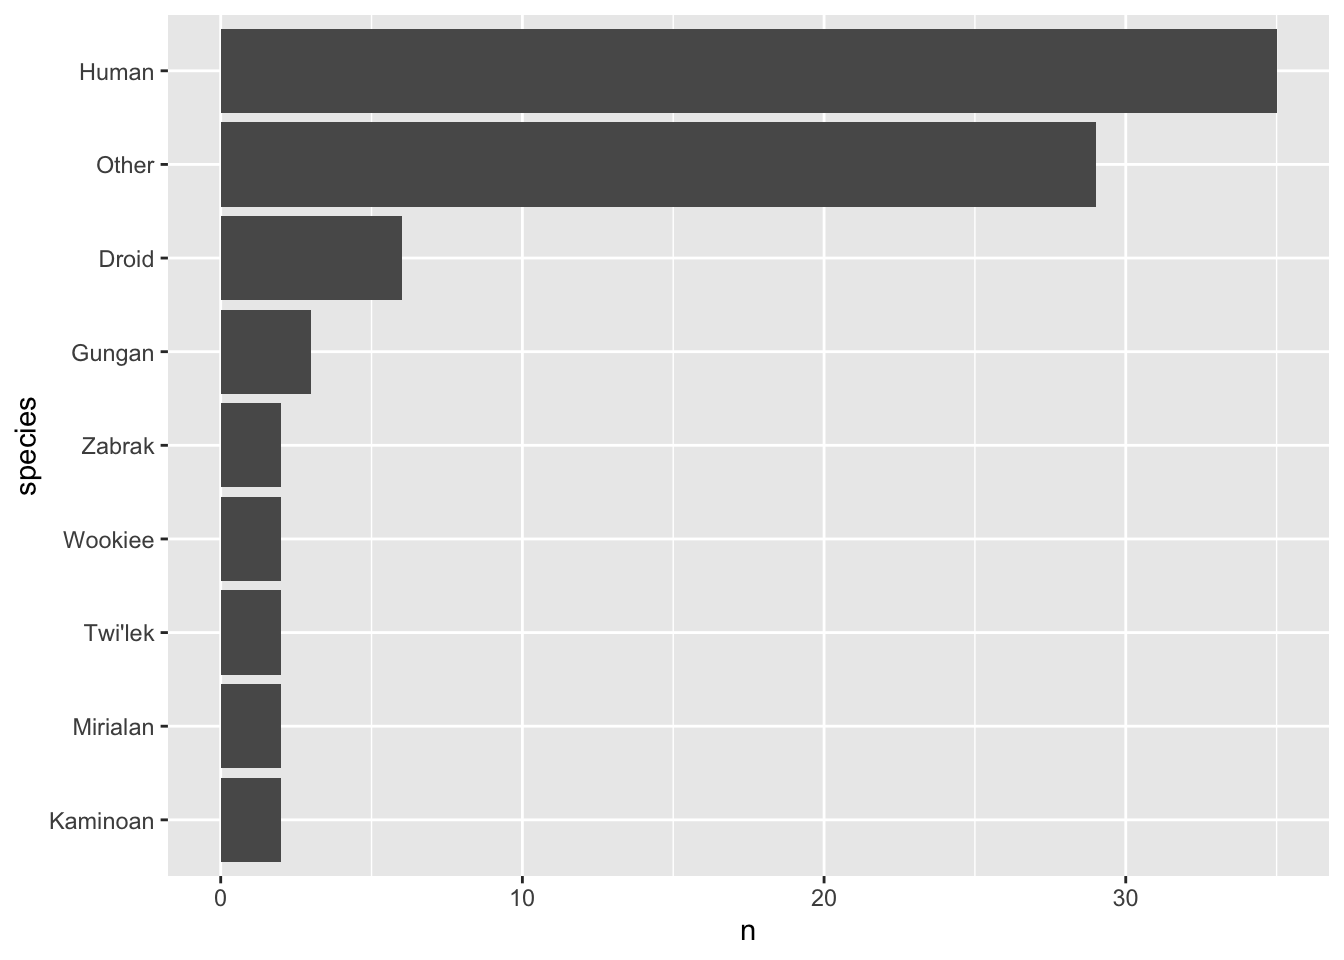
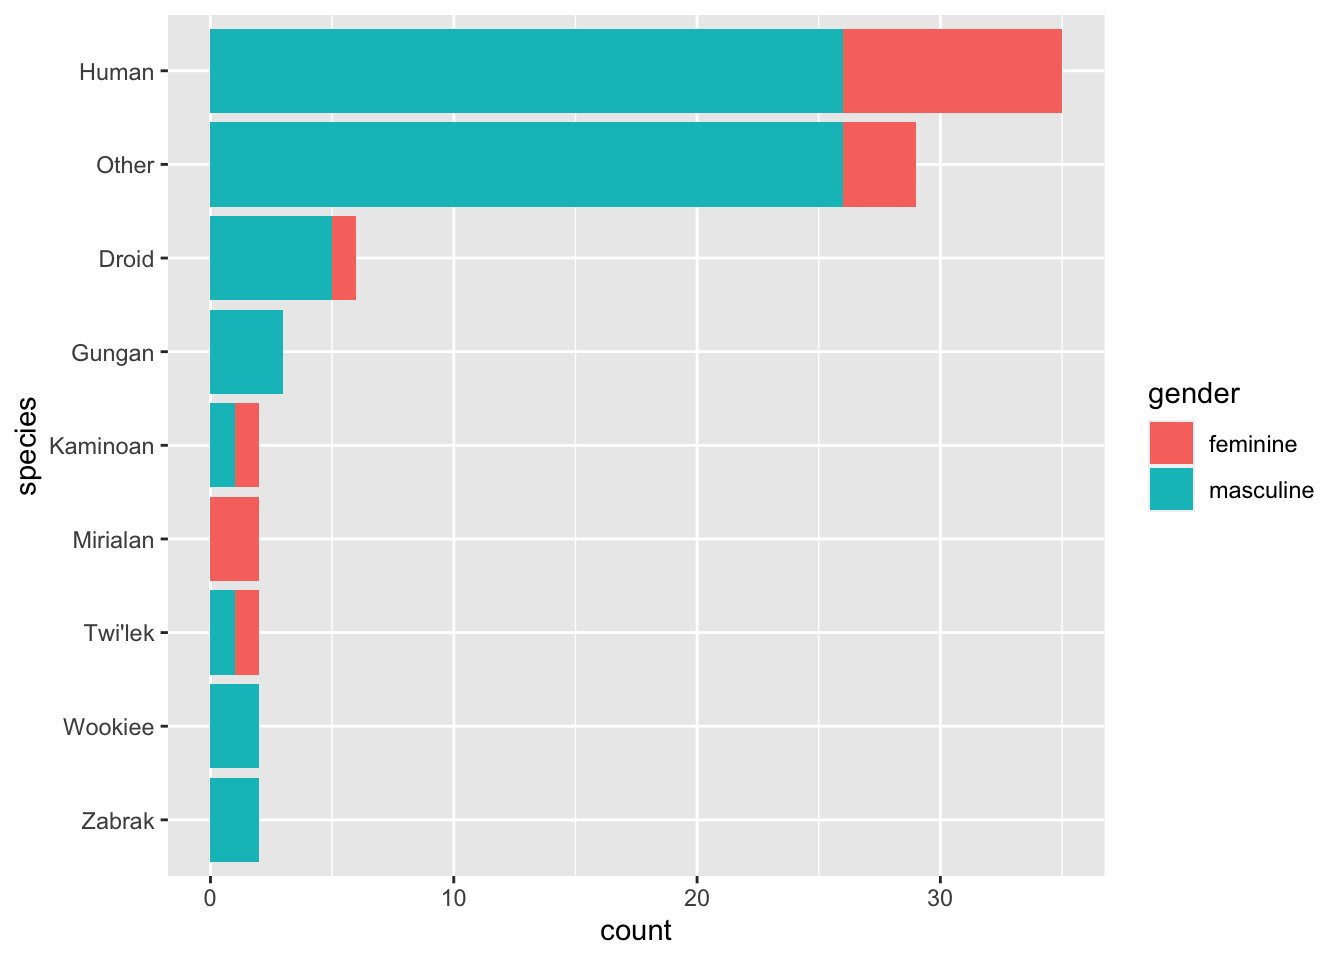
bookdown plan improved

diff --git a/_book/bookdownplan.html b/_book/bookdownplan.html
@@ -24,7 +24,7 @@
 <meta name="author" content="William McDonald" />
 
 
-<meta name="date" content="2020-08-23" />
+<meta name="date" content="2020-08-30" />
 
   <meta name="viewport" content="width=device-width, initial-scale=1" />
   <meta name="apple-mobile-web-app-capable" content="yes" />
@@ -140,6 +140,7 @@ code span.wa { color: #60a0b0; font-weight: bold; font-style: italic; } /* Warni
 <li class="chapter" data-level="2.2" data-path="bookdownplan.html"><a href="bookdownplan.html#referencing-other-parts-of-the-document"><i class="fa fa-check"></i><b>2.2</b> Referencing other parts of the document</a></li>
 <li class="chapter" data-level="2.3" data-path="bookdownplan.html"><a href="bookdownplan.html#inserting-pictures"><i class="fa fa-check"></i><b>2.3</b> Inserting pictures</a></li>
 <li class="chapter" data-level="2.4" data-path="bookdownplan.html"><a href="bookdownplan.html#referencing-citations"><i class="fa fa-check"></i><b>2.4</b> Referencing citations:</a></li>
+<li class="chapter" data-level="2.5" data-path="bookdownplan.html"><a href="bookdownplan.html#nifty-test-figure."><i class="fa fa-check"></i><b>2.5</b> Nifty test figure.</a></li>
 </ul></li>
 <li class="chapter" data-level="3" data-path="dataexploration.html"><a href="dataexploration.html"><i class="fa fa-check"></i><b>3</b> Data Exploration</a><ul>
 <li class="chapter" data-level="3.1" data-path="dataexploration.html"><a href="dataexploration.html#counting-things.-the-naming-of-parts."><i class="fa fa-check"></i><b>3.1</b> Counting things. The naming of parts.</a></li>
@@ -150,7 +151,9 @@ code span.wa { color: #60a0b0; font-weight: bold; font-style: italic; } /* Warni
 <li class="chapter" data-level="4.1" data-path="sampling.html"><a href="sampling.html#think-about-throwing-a-bunch-of-dice."><i class="fa fa-check"></i><b>4.1</b> Think about throwing a bunch of dice.</a></li>
 <li class="chapter" data-level="4.2" data-path="sampling.html"><a href="sampling.html#a-keen-way-to-divide-up-a-dataset-into-testing-and-training-components."><i class="fa fa-check"></i><b>4.2</b> A keen way to divide up a dataset into testing and training components.</a></li>
 </ul></li>
-<li class="chapter" data-level="5" data-path="factorpractice.html"><a href="factorpractice.html"><i class="fa fa-check"></i><b>5</b> Factor Practice</a></li>
+<li class="chapter" data-level="5" data-path="factorpractice.html"><a href="factorpractice.html"><i class="fa fa-check"></i><b>5</b> Factor Practice</a><ul>
+<li class="chapter" data-level="5.1" data-path="factorpractice.html"><a href="factorpractice.html#the-basic-structure"><i class="fa fa-check"></i><b>5.1</b> The basic structure</a></li>
+</ul></li>
 <li class="chapter" data-level="6" data-path="crossingtrial.html"><a href="crossingtrial.html"><i class="fa fa-check"></i><b>6</b> Crossing Trial</a></li>
 <li class="chapter" data-level="7" data-path="changenames.html"><a href="changenames.html"><i class="fa fa-check"></i><b>7</b> By Any Other Name</a><ul>
 <li class="chapter" data-level="7.1" data-path="changenames.html"><a href="changenames.html#a-financial-example"><i class="fa fa-check"></i><b>7.1</b> A financial example</a></li>
@@ -212,9 +215,9 @@ code span.wa { color: #60a0b0; font-weight: bold; font-style: italic; } /* Warni
 <h2><span class="header-section-number">2.1</span> Basic conventions</h2>
 <ul>
 <li>the <code>_bookdown.yml</code> file contains a snippet that is important to inserting the word “Chapter” before the chapter number in each of the Rmd files.</li>
-<li>packages are indicated in bold, like <strong>dplyr</strong></li>
+<li>packages are indicated in bold, like <strong>dplyr</strong> (surround with double asterisks)</li>
 <li>programs, like RStudio or MS Word, are in regular typeface</li>
-<li>inline code and filenames are indicated in typerwriter face using backticks, like <code>_bookdown.yml</code></li>
+<li>inline code and filenames are indicated in typerwriter face by surrounding with backticks: <code>_bookdown.yml</code></li>
 <li><code>_output.yml</code> is modified from that used by Xie in his <code>bookdown-demo</code> <span class="citation">(Xie <a href="#ref-R-bookdown" role="doc-biblioref">2020</a>)</span>; it evokes <code>style.css</code>, <code>toc.css</code>, <code>preamble.tex</code>, which are also borrowed from Xie.</li>
 <li>chapters are set in order by using adding 01, 02, 03, … before the name of their Rmd, like <code>01chpter.Rmd</code>. Note that they can have short descriptive phrases, since the actual chapter titles are determined by the hashtag. <code>index.Rmd</code> always comes first in the book build, and contains the <code>yml</code> front matter.</li>
 <li>the most frequently used keyboard shortcuts from RStudio include:
@@ -228,7 +231,7 @@ code span.wa { color: #60a0b0; font-weight: bold; font-style: italic; } /* Warni
 </div>
 <div id="referencing-other-parts-of-the-document" class="section level2">
 <h2><span class="header-section-number">2.2</span> Referencing other parts of the document</h2>
-<p>This is a good place to practice referencing figures. Say that I want to refer the reader back to my first starwars figure. See Figure <a href="dataexploration.html#fig:starfig-1">3.1</a>.</p>
+<p>This is a good place to practice referencing figures. Say that I want to refer the reader back to my first starwars figure. See Figure <a href="bookdownplan.html#fig:starfig-1">2.1</a>.</p>
 <p>I can reference other pages in a similar fashion. See Chapter <a href="subset.html#subset">10</a>. Note that this works by referencing a {#label} placed in the chapter title.</p>
 <p>See Chapter <a href="index.html#intro">1</a></p>
 <p>See Chapter <a href="dataexploration.html#dataexploration">3</a></p>
@@ -251,13 +254,32 @@ code span.wa { color: #60a0b0; font-weight: bold; font-style: italic; } /* Warni
 </div>
 <div id="referencing-citations" class="section level2">
 <h2><span class="header-section-number">2.4</span> Referencing citations:</h2>
-<p>In order to insert citations, one needs a .bib file in the project. I’ve included one in this project as <code>book.bib</code>. The yml header in Chapter <a href="index.html#intro">1</a> needs to have a <span class="math inline">\(bibliography:\)</span> and <span class="math inline">\(biblio-style:\)</span> line added.</p>
-<p>To insert a citation, use the <strong>citr</strong> Addin from RStudio. <strong>bookdown</strong>, for instance, is cited thusly <span class="citation">(Xie <a href="#ref-R-bookdown" role="doc-biblioref">2020</a>)</span>. Note that I need to figure out an adequate workflow of references. The convenience of Endnote in MS Word will not be available. Nonetheless, if I populate the book.bib and packages.bib files carefully, with .txt files generated in Endnote, I should be OK.</p>
+<p>In order to insert reference citations, one needs a <code>.bib</code> file in the project. I’ve included one in this project as <code>book.bib</code>. The yml header in Chapter <a href="index.html#intro">1</a> needs to have a <span class="math inline">\(bibliography:\)</span> and <span class="math inline">\(biblio-style:\)</span> line added. A separate <code>packages.bib</code> file is also used to hold the R packages cited.</p>
+<p>To insert a citation, use the <strong>citr</strong> Addin from RStudio. <strong>bookdown</strong>, for instance, is cited thusly <span class="citation">(Xie <a href="#ref-R-bookdown" role="doc-biblioref">2020</a>)</span>. Note that I need to figure out an adequate workflow of references. The convenience of Endnote in MS Word will not be available. Nonetheless, if I populate the <code>book.bib</code> and <code>packages.bib</code> files carefully, with .txt files generated in Endnote, I should be OK.</p>
 <p>For instance, a recent dump of my Endnote library is in bookFromEndnote.txt. This can be opened in RStudio, and I can copy-and-paste references from the .txt file to my book.bib. For instance, if I have a breast paper that I want to cite here <span class="citation">(Stevens and Parekh <a href="#ref-RN2750" role="doc-biblioref">2016</a>)</span>, I’d copy-and-paste the reference from <code>bookFromEndnote.txt</code> to <code>book.bib</code>.</p>
 <p>Of note, Yihui Xie includes a nifty bit of code to automatically generate a bib database for R packages:</p>
 <div class="sourceCode" id="cb1"><pre class="sourceCode r"><code class="sourceCode r"><span id="cb1-1"><a href="bookdownplan.html#cb1-1"></a>knitr<span class="op">::</span><span class="kw">write_bib</span>(<span class="kw">c</span>(<span class="kw">.packages</span>(), <span class="st">&#39;bookdown&#39;</span>, <span class="st">&#39;knitr&#39;</span>, <span class="st">&#39;rmarkdown&#39;</span>, <span class="st">&#39;tidyverse&#39;</span>, <span class="st">&#39;ComplexHeatmap&#39;</span>), <span class="st">&#39;packages.bib&#39;</span>)</span></code></pre></div>
 <pre><code>## Warning in knitr::write_bib(c(.packages(), &quot;bookdown&quot;, &quot;knitr&quot;, &quot;rmarkdown&quot;, :
 ## package(s) ComplexHeatmap not found</code></pre>
+<p>All packages are maintained in <code>packages.bib</code>. In the knitted document, references appear automatically at the end of a chapter.</p>
+</div>
+<div id="nifty-test-figure." class="section level2">
+<h2><span class="header-section-number">2.5</span> Nifty test figure.</h2>
+<p>First I need the help of the <strong>tidverse</strong>.</p>
+<div class="sourceCode" id="cb3"><pre class="sourceCode r"><code class="sourceCode r"><span id="cb3-1"><a href="bookdownplan.html#cb3-1"></a><span class="kw">library</span>(tidyverse)</span></code></pre></div>
+<p>Now to generate a figure. The code chunk contains the following: <code>{r starfig-1, fig.cap='Starwars Figure 1'}</code>. This labels the figure with a short name, <em>starfig-1</em>, and gives it the caption <em>Starwars Figure 1</em>.</p>
+<div class="sourceCode" id="cb4"><pre class="sourceCode r"><code class="sourceCode r"><span id="cb4-1"><a href="bookdownplan.html#cb4-1"></a>starwars <span class="op">%&gt;%</span><span class="st"> </span><span class="kw">filter</span>(<span class="op">!</span><span class="kw">is.na</span>(species)) <span class="op">%&gt;%</span><span class="st"> </span></span>
+<span id="cb4-2"><a href="bookdownplan.html#cb4-2"></a><span class="st">  </span><span class="kw">mutate</span>(<span class="dt">species =</span> <span class="kw">fct_lump</span>(species, <span class="dv">5</span>)) <span class="op">%&gt;%</span><span class="st"> </span></span>
+<span id="cb4-3"><a href="bookdownplan.html#cb4-3"></a><span class="st">  </span><span class="kw">mutate</span>(<span class="dt">species =</span> species <span class="op">%&gt;%</span><span class="st"> </span><span class="kw">fct_infreq</span>() <span class="op">%&gt;%</span><span class="st"> </span><span class="kw">fct_rev</span>()) <span class="op">%&gt;%</span><span class="st"> </span></span>
+<span id="cb4-4"><a href="bookdownplan.html#cb4-4"></a><span class="st">  </span><span class="kw">ggplot</span>()<span class="op">+</span></span>
+<span id="cb4-5"><a href="bookdownplan.html#cb4-5"></a><span class="st">  </span><span class="kw">geom_bar</span>(<span class="kw">aes</span>(species, <span class="dt">fill =</span> gender))<span class="op">+</span></span>
+<span id="cb4-6"><a href="bookdownplan.html#cb4-6"></a><span class="st">  </span><span class="kw">coord_flip</span>()</span></code></pre></div>
+<div class="figure"><span id="fig:starfig-1"></span>
+<img src="test-book_files/figure-html/starfig-1-1.png" alt="Starwars Figure 1" width="672" />
+<p class="caption">
+Figure 2.1: Starwars Figure 1
+</p>
+</div>
 <p>References appear automatically at the end of a chapter.</p>
 
 </div>
